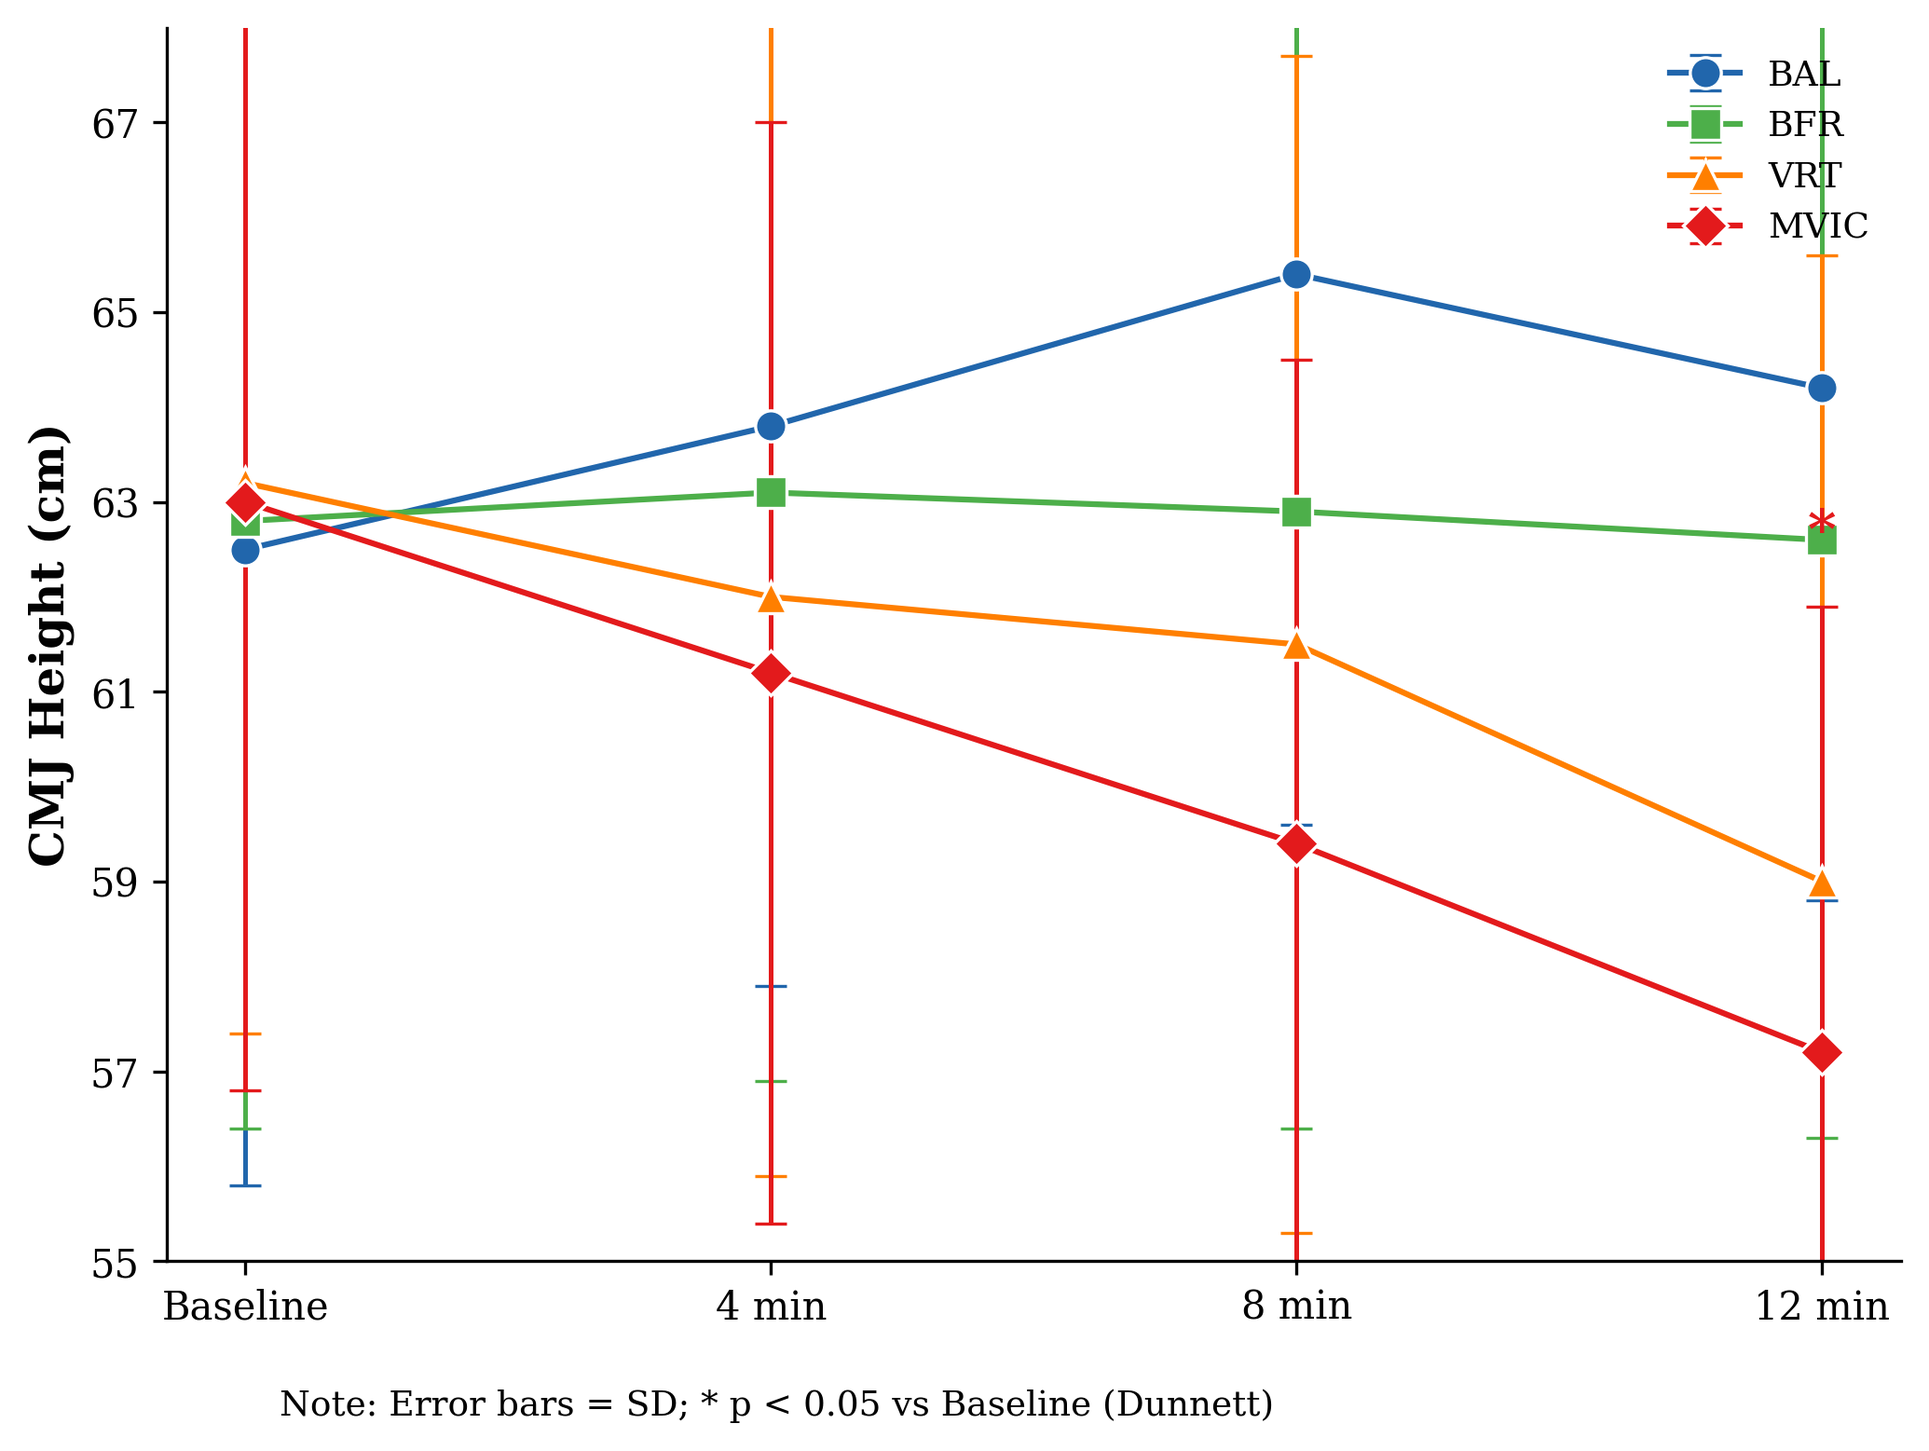
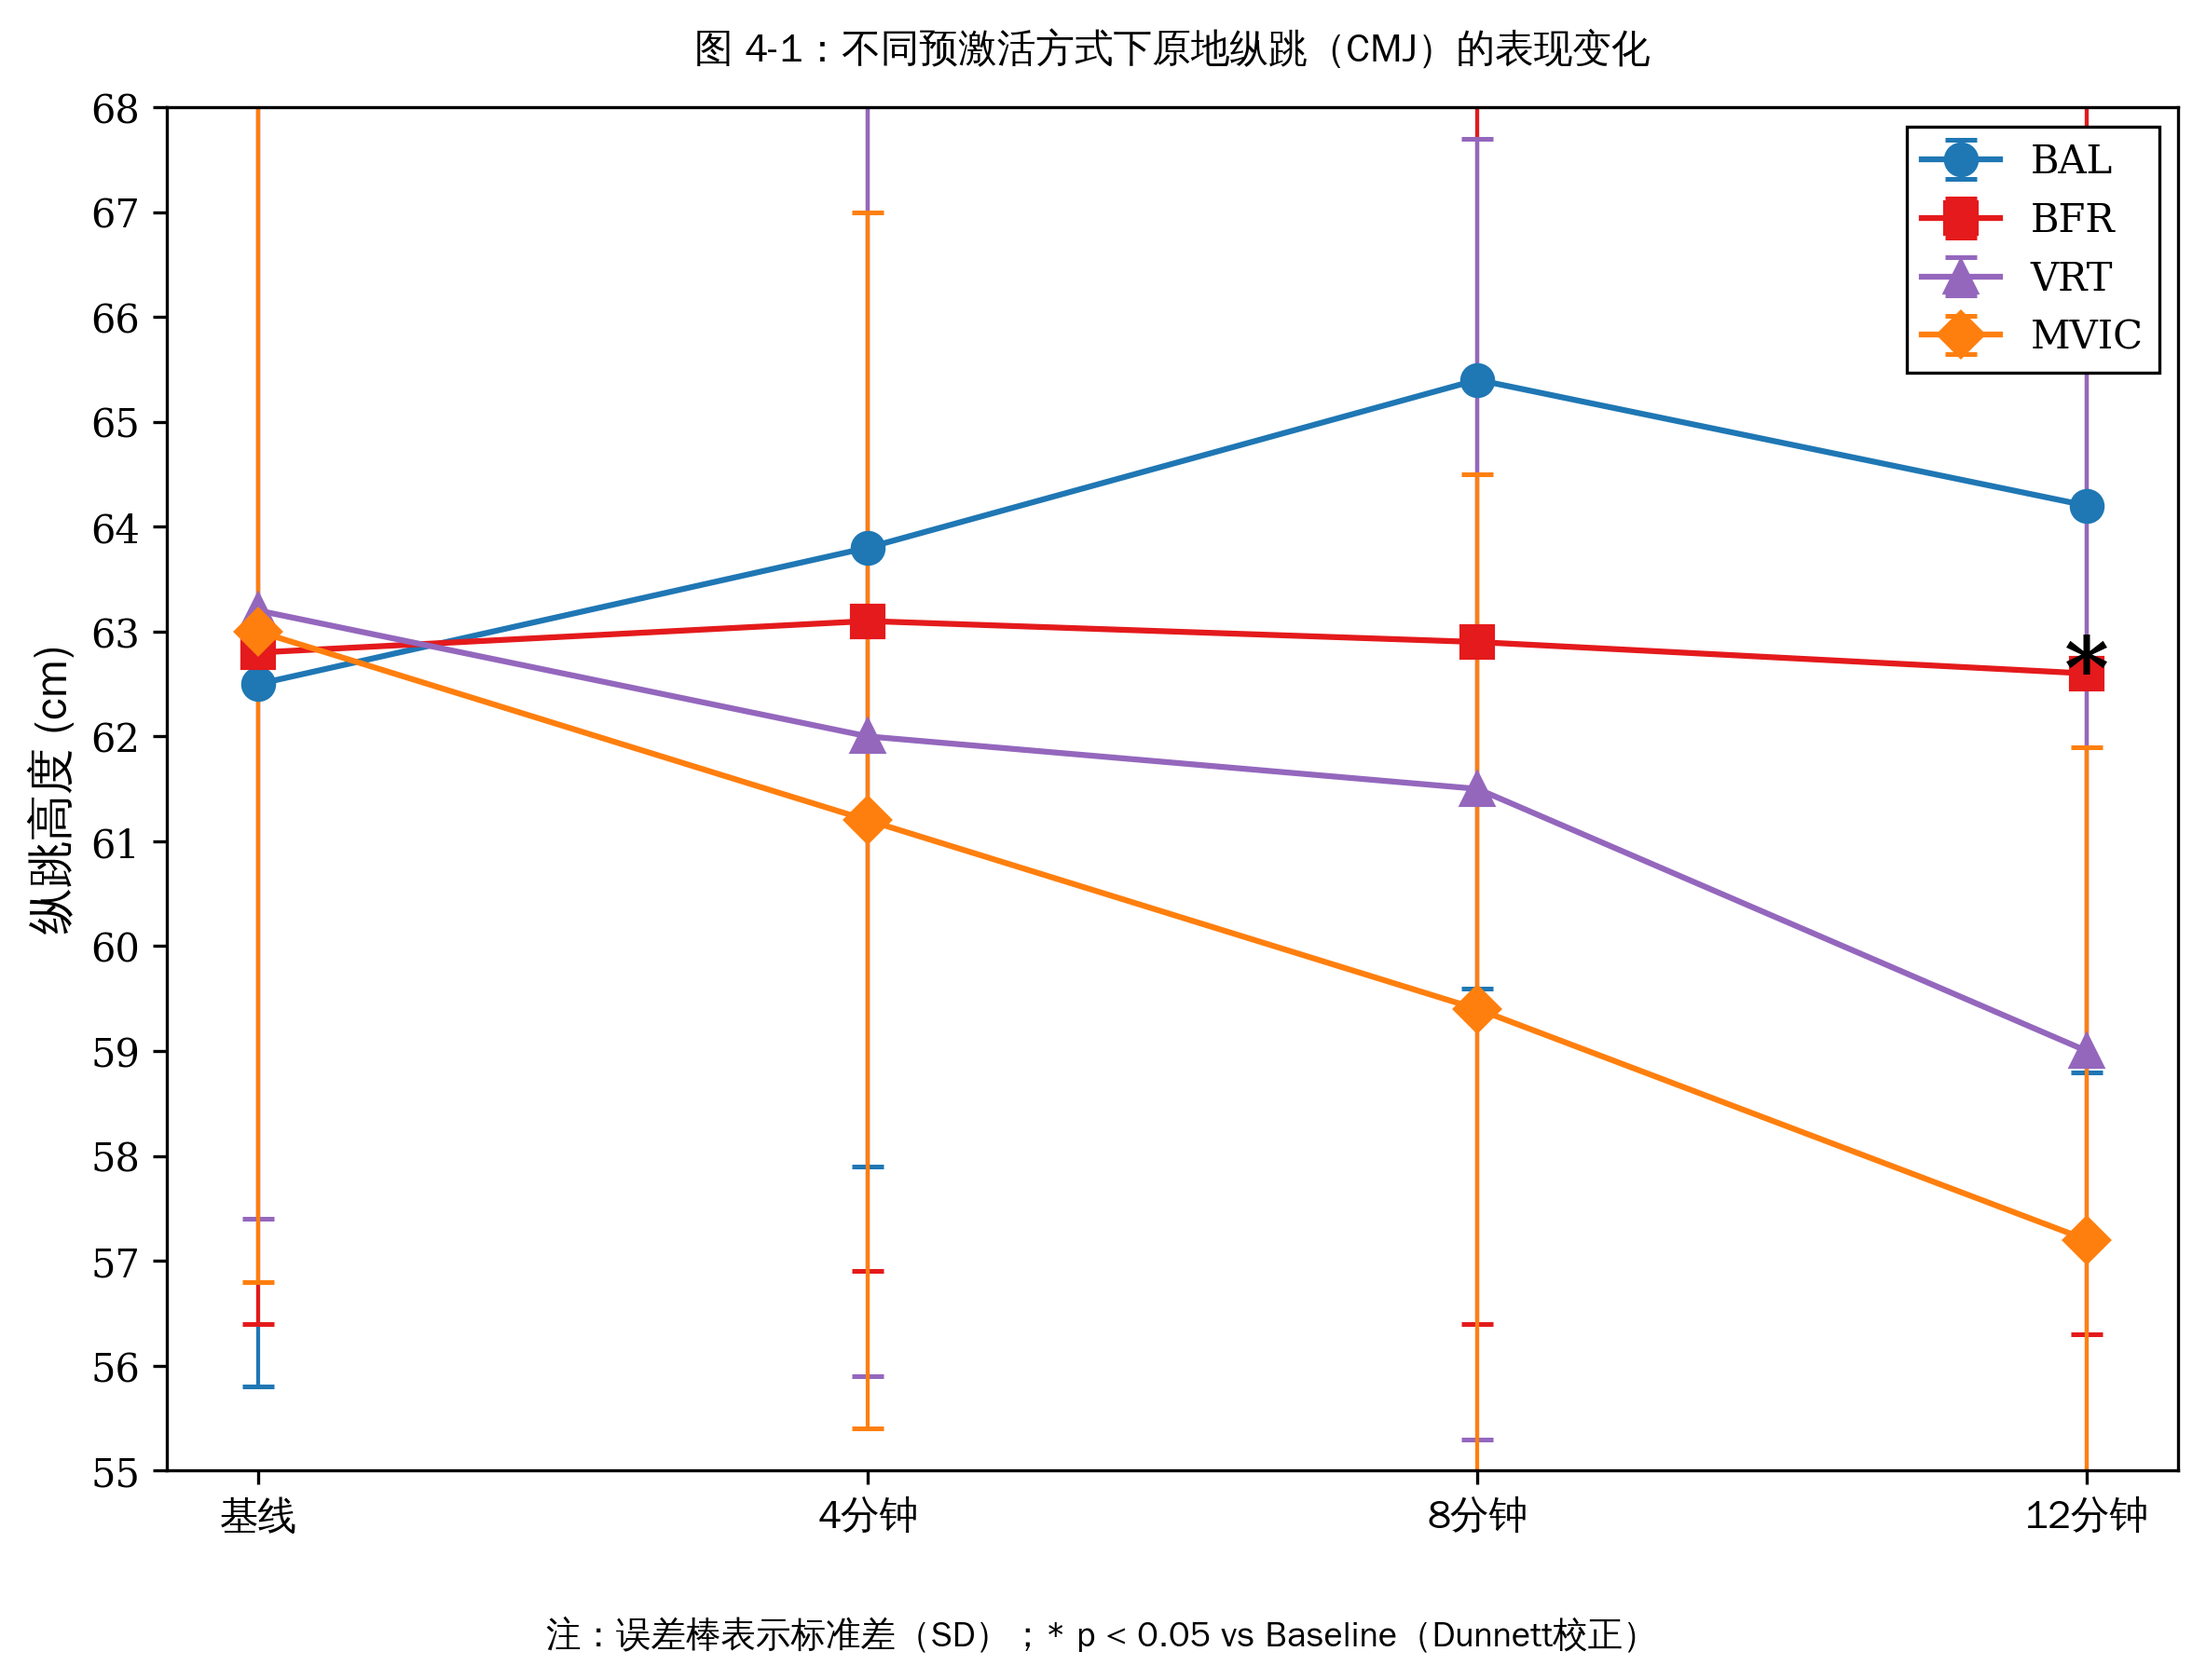
更新CMJ折线图：学术风格配色与中文标注
按要求重新生成图表：
- 使用经典科研配色（蓝/红/紫/橙）
- 中文标题、轴标签、X轴刻度
- MVIC 12分钟数据点上方添加黑色显著性星号
- 白色背景无网格线，300dpi输出

https://claude.ai/code/session_013XWoNh2oFzDdN8d71DVnQ9

Changed region(s): [[0.0, 0.0, 0.9894, 0.9249], [0.1546, 0.9557, 0.742, 0.9865], [0.3092, 0.0, 0.3401, 0.0308]]

diff --git a/plot_cmj.py b/plot_cmj.py
@@ -1,76 +1,114 @@
 import matplotlib
-matplotlib.use('Agg')  # Non-interactive backend
+matplotlib.use('Agg')
 import matplotlib.pyplot as plt
+import matplotlib.font_manager as fm
 import numpy as np
 
-# 设置全局字体为 Times New Roman (学术期刊常用)
-plt.rcParams['font.family'] = 'serif'
-plt.rcParams['font.serif'] = ['Times New Roman'] + plt.rcParams['font.serif']
-plt.rcParams['axes.unicode_minus'] = False  # 解决负号显示问题
+# --- Find fonts ---
+# Chinese font
+chinese_font = None
+for candidate in ['WenQuanYi Zen Hei', 'SimSun', 'SimHei', 'WenQuanYi Micro Hei',
+                   'Noto Sans CJK SC', 'Noto Serif CJK SC', 'AR PL UMing CN', 'Source Han Sans SC']:
+    try:
+        fp = fm.FontProperties(family=candidate)
+        if fm.findfont(fp) != fm.findfont(fm.FontProperties()):
+            chinese_font = candidate
+            break
+    except:
+        continue
+if chinese_font is None:
+    for f in fm.findSystemFonts():
+        try:
+            fp = fm.FontProperties(fname=f)
+            name = fp.get_name()
+            if any(kw in name.lower() for kw in ['cjk', 'hei', 'song', 'ming', 'noto sans cjk', 'wenquan', 'wqy']):
+                chinese_font = name
+                break
+        except:
+            continue
 
-# --- 1. 数据录入 ---
-time_points = ['Baseline', '4 min', '8 min', '12 min']
-x = np.arange(len(time_points))
+ch_prop = fm.FontProperties(family=chinese_font) if chinese_font else fm.FontProperties()
 
-# 格式: { 条件: {'mean': [均值列表], 'sd': [标准差列表], 'color': 颜色, 'marker': 形状} }
+# English font - try Times New Roman, fall back to serif
+en_family = 'Times New Roman'
+try:
+    fp = fm.FontProperties(family='Times New Roman')
+    if fm.findfont(fp) == fm.findfont(fm.FontProperties()):
+        en_family = 'DejaVu Serif'
+except:
+    en_family = 'DejaVu Serif'
+
+en_prop = fm.FontProperties(family=en_family)
+
+plt.rcParams.update({
+    'font.family': 'serif',
+    'font.serif': [en_family, 'DejaVu Serif', 'serif'],
+    'mathtext.fontset': 'stix',
+    'axes.unicode_minus': False,
+})
+
+# --- Data ---
+x_labels = ['基线', '4分钟', '8分钟', '12分钟']
+x = np.arange(len(x_labels))
+
 data = {
-    'BAL':  {'mean': [62.5, 63.8, 65.4, 64.2], 'sd': [6.7, 5.9, 5.8, 5.4],  'color': '#2166AC', 'marker': 'o'},
-    'BFR':  {'mean': [62.8, 63.1, 62.9, 62.6], 'sd': [6.4, 6.2, 6.5, 6.3],  'color': '#4DAF4A', 'marker': 's'},
-    'VRT':  {'mean': [63.2, 62.0, 61.5, 59.0], 'sd': [5.8, 6.1, 6.2, 6.6],  'color': '#FF7F00', 'marker': '^'},
-    'MVIC': {'mean': [63.0, 61.2, 59.4, 57.2], 'sd': [6.2, 5.8, 5.1, 4.7],  'color': '#E31A1C', 'marker': 'D'}
+    'BAL':  {'mean': [62.5, 63.8, 65.4, 64.2], 'sd': [6.7, 5.9, 5.8, 5.4], 'color': '#1F77B4', 'marker': 'o'},
+    'BFR':  {'mean': [62.8, 63.1, 62.9, 62.6], 'sd': [6.4, 6.2, 6.5, 6.3], 'color': '#E41A1C', 'marker': 's'},
+    'VRT':  {'mean': [63.2, 62.0, 61.5, 59.0], 'sd': [5.8, 6.1, 6.2, 6.6], 'color': '#9467BD', 'marker': '^'},
+    'MVIC': {'mean': [63.0, 61.2, 59.4, 57.2], 'sd': [6.2, 5.8, 5.1, 4.7], 'color': '#FF7F0E', 'marker': 'D'},
 }
 
-# --- 2. 创建画布 ---
-fig, ax = plt.subplots(figsize=(7, 5.5), dpi=300)
-fig.patch.set_facecolor('white')
+# --- Create figure ---
+fig, ax = plt.subplots(figsize=(8, 6), facecolor='white')
+ax.set_facecolor('white')
 
-# --- 3. 循环绘图 ---
-for label, cfg in data.items():
-    ax.errorbar(
-        x, cfg['mean'], yerr=cfg['sd'],
-        label=label,
-        color=cfg['color'],
-        marker=cfg['marker'],
-        markersize=8,
-        linewidth=1.5,
-        linestyle='-',
-        capsize=4,
-        elinewidth=1.2,
-        markeredgecolor='white',
-        markeredgewidth=0.8
-    )
+# --- Plot lines ---
+for name, d in data.items():
+    ax.errorbar(x, d['mean'], yerr=d['sd'], label=name,
+                color=d['color'], marker=d['marker'], markersize=8,
+                linewidth=1.5, capsize=4, capthick=1.2,
+                markerfacecolor=d['color'], markeredgecolor=d['color'],
+                elinewidth=1.0)
 
-# --- 4. 标注显著性 (MVIC 12min) ---
-star_x = 3
-star_y = data['MVIC']['mean'][3] + data['MVIC']['sd'][3] + 0.5
-ax.text(star_x, star_y, '*', ha='center', va='bottom', fontsize=14, color='#E31A1C', fontweight='bold')
+# --- Star annotation: MVIC 12min, above error bar cap ---
+# Place black star above the upper error bar cap of MVIC at 12min
+# Use high zorder to ensure visibility above other plot elements
+ax.annotate('*', xy=(3, 57.2 + 4.7 + 0.3), fontsize=22, fontweight='bold',
+            color='black', ha='center', va='bottom',
+            annotation_clip=False, zorder=100)
 
-# --- 5. 坐标轴及样式美化 ---
-ax.set_ylim(55, 68)
+# --- Title ---
+ax.set_title('图 4-1：不同预激活方式下原地纵跳（CMJ）的表现变化',
+             fontsize=14, fontweight='bold', fontproperties=ch_prop, pad=12)
+
+# --- Axes ---
 ax.set_xticks(x)
-ax.set_xticklabels(time_points, fontsize=10)
-ax.set_yticks(np.arange(55, 69, 2))
+ax.set_xticklabels(x_labels, fontsize=10, fontproperties=ch_prop)
+ax.set_ylabel('纵跳高度 (cm)', fontsize=12, fontproperties=ch_prop)
+ax.set_ylim(55, 68)
+ax.set_yticks(np.arange(55, 69, 1))
 ax.tick_params(axis='both', which='major', labelsize=10)
-ax.set_ylabel('CMJ Height (cm)', fontsize=12, fontweight='bold')
+for label in ax.get_yticklabels():
+    label.set_fontproperties(en_prop)
 
-ax.spines['top'].set_visible(False)
-ax.spines['right'].set_visible(False)
+# --- No grid, keep all four spines ---
+ax.grid(False)
+for spine in ax.spines.values():
+    spine.set_linewidth(0.8)
 
-# --- 6. 图例与图注 ---
-ax.legend(
-    loc='upper right',
-    frameon=False,
-    prop={'size': 9, 'family': 'serif'}
-)
+# --- Legend (upper right, with frame) ---
+legend = ax.legend(loc='upper right', fontsize=10, frameon=True, edgecolor='black',
+                   fancybox=False, framealpha=1.0)
+legend.get_frame().set_linewidth(0.8)
+for text in legend.get_texts():
+    text.set_fontproperties(en_prop)
 
-plt.figtext(
-    0.15, 0.02,
-    "Note: Error bars = SD; * p < 0.05 vs Baseline (Dunnett)",
-    fontsize=9, ha='left'
-)
+# --- Bottom note ---
+fig.text(0.5, 0.01,
+         '注：误差棒表示标准差（SD）；* p < 0.05 vs Baseline（Dunnett校正）',
+         ha='center', fontsize=9, fontproperties=ch_prop, fontstyle='italic')
 
-plt.tight_layout(rect=[0, 0.05, 1, 0.95])
-
-# --- 7. 输出保存 ---
-plt.savefig('CMJ_Performance_Analysis.png', bbox_inches='tight', dpi=300)
-print("图片已生成并保存为 CMJ_Performance_Analysis.png (300 DPI)")
+plt.tight_layout(rect=[0, 0.05, 1, 1])
+fig.savefig('/home/user/Teaching_platform/CMJ_Performance_Analysis.png',
+            dpi=300, bbox_inches='tight', facecolor='white')
+print('Done: CMJ_Performance_Analysis.png saved.')
